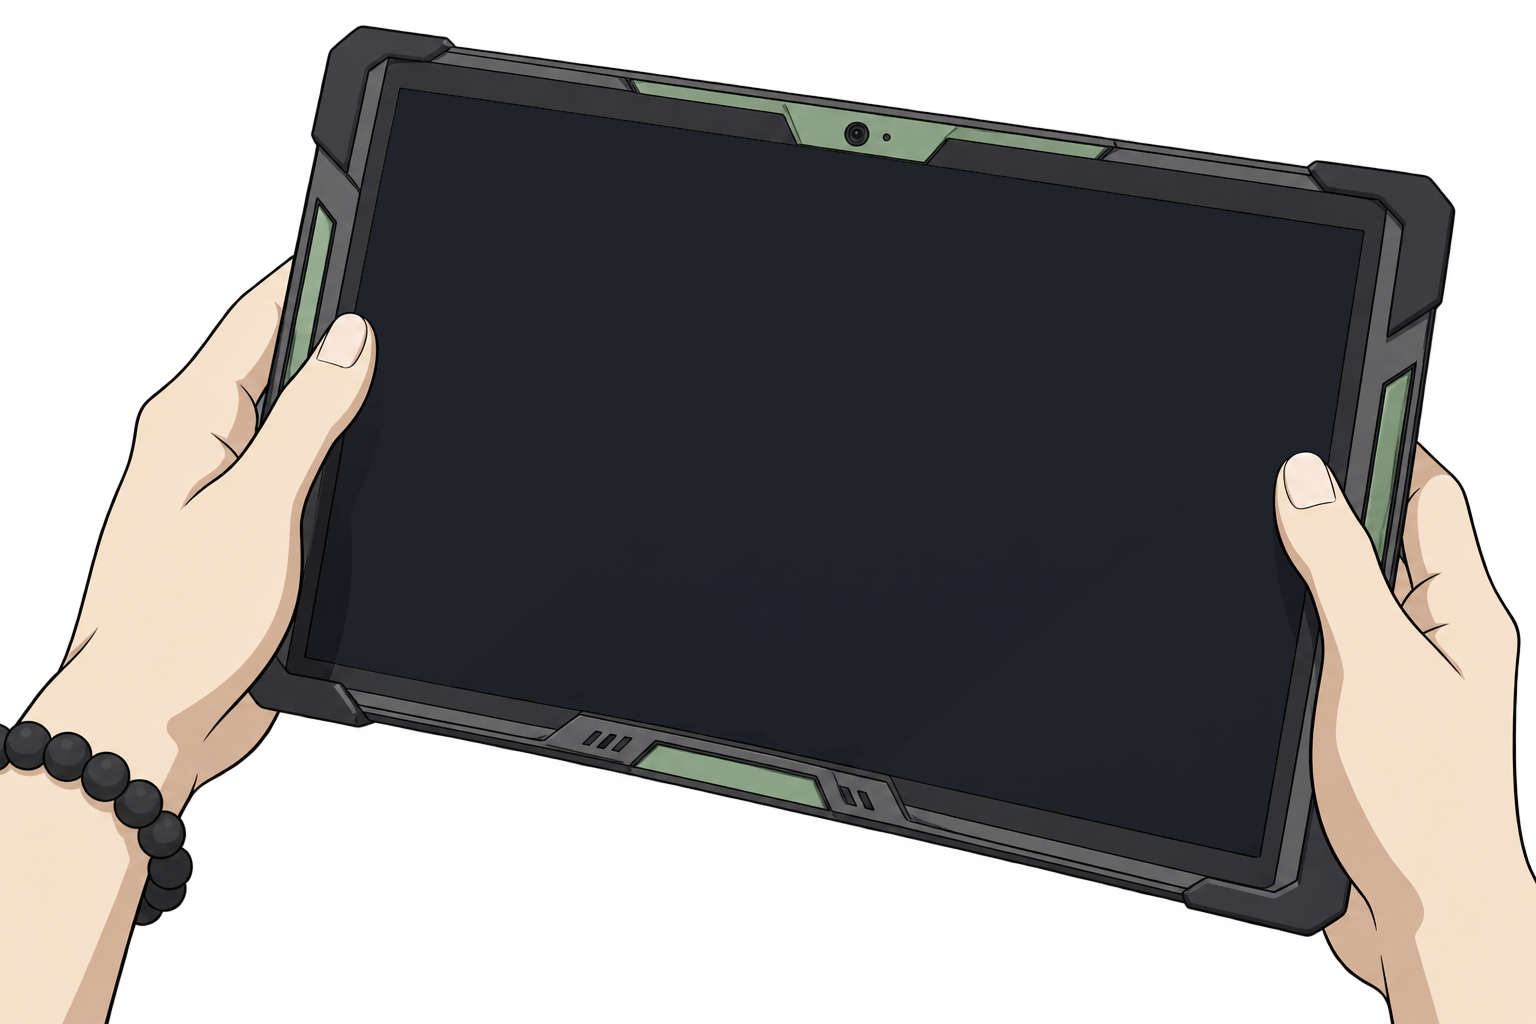
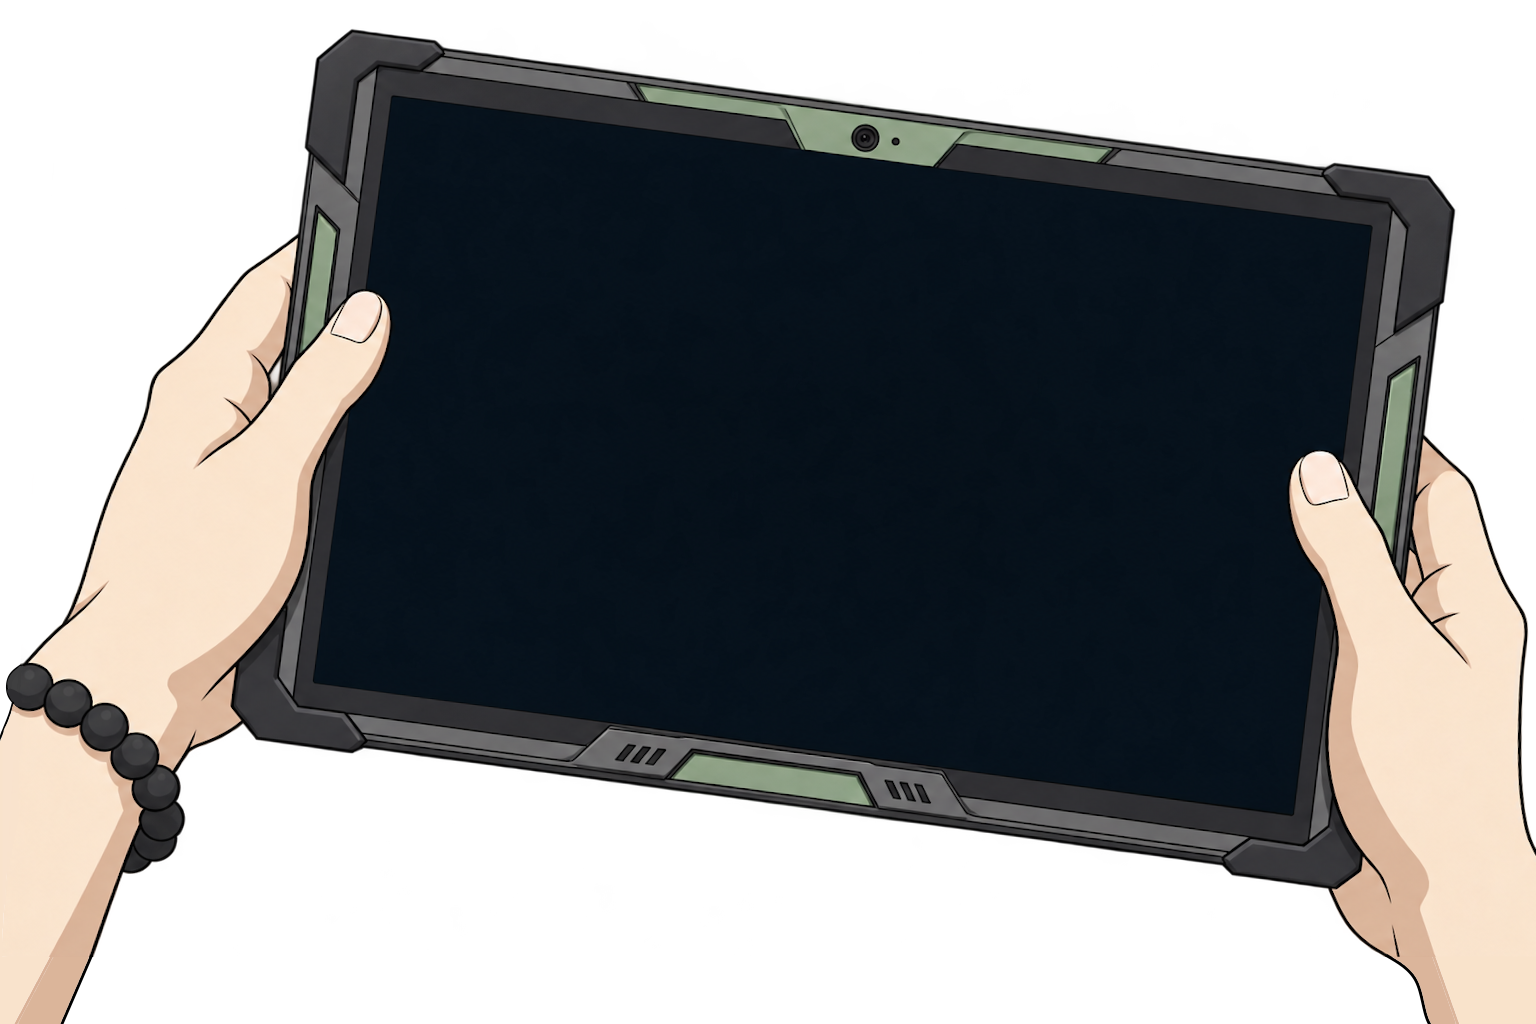
maj

diff --git a/MECANIQUES_JEU.md b/MECANIQUES_JEU.md
@@ -193,8 +193,9 @@ Dernier audit complet : **30 septembre 2026** — sources Ren'Py actives sous `g
 
 | Nom | Description en une ligne | Fichier source | Exemple d'appel en une ligne |
 |---|---|---|---|
-| Tablette — accueil animé | Superpose les quatre étapes PNG avec fondus croisés, signale les messages en attente et fournit les boutons Messagerie, EXIT et Discord. | `game/tablet_home.rpy` | `show screen tablet_home` |
+| Tablette — accueil animé | Superpose les quatre étapes PNG avec fondus croisés, signale les messages en attente et ouvre les applications Messagerie et Profils ainsi que les boutons EXIT et Discord. | `game/tablet_home.rpy` | `show screen tablet_home` |
 | Tablette — messagerie scénarisée | Affiche jusqu’à quatre derniers messages révélés en lignes à hauteur naturelle dans une zone défilante ; portraits, titre du correspondant, statut, viewport et indication de progression repositionnés selon la capture annotée sur le plan commun incliné à 9,3° ; conserve la progression au clic. | `game/messenger.rpy`, `game/images/ui/tablette/tablette_messagerie.png`, `game/tablet_home.rpy` | `call messenger_play("kael", "kael", [("kael", "Noam ? T'es là ?"), ("noam", "Ouais.")])` |
+| Tablette — profils des représentants | Charge sur la vitre inclinée une fiche compacte avec portrait équipé, identité, liens, citation, sélection des douze représentants, accès à la garde-robe et pouces redessinés au premier plan. | `game/systems_profiles_codex.rpy`, `game/tablet_home.rpy`, `game/images/ui/tablette/tablette_pouce.png` | `show screen tablet_profiles` |
 | Tablette — statistiques | Présente les cinq stats et leur progression en jauges segmentées. | `game/stats_system.rpy` | `show screen tablet_stats` |
 | Tablette narrative du jour 1 | Interaction terminal scénarisée propre au réveil et à l'amendement. | `game/day1_ui.rpy` | `call screen day1_tablet_interaction` |
 | Timer dynamique | Compte à rebours persistant, modifiable en direct, avec saut optionnel à expiration. | `game/day0_ui.rpy` | `$ day0_timer_init(m=5, end_label="_TEMPS_ECOULE"); show screen day0_countdown_overlay` |
